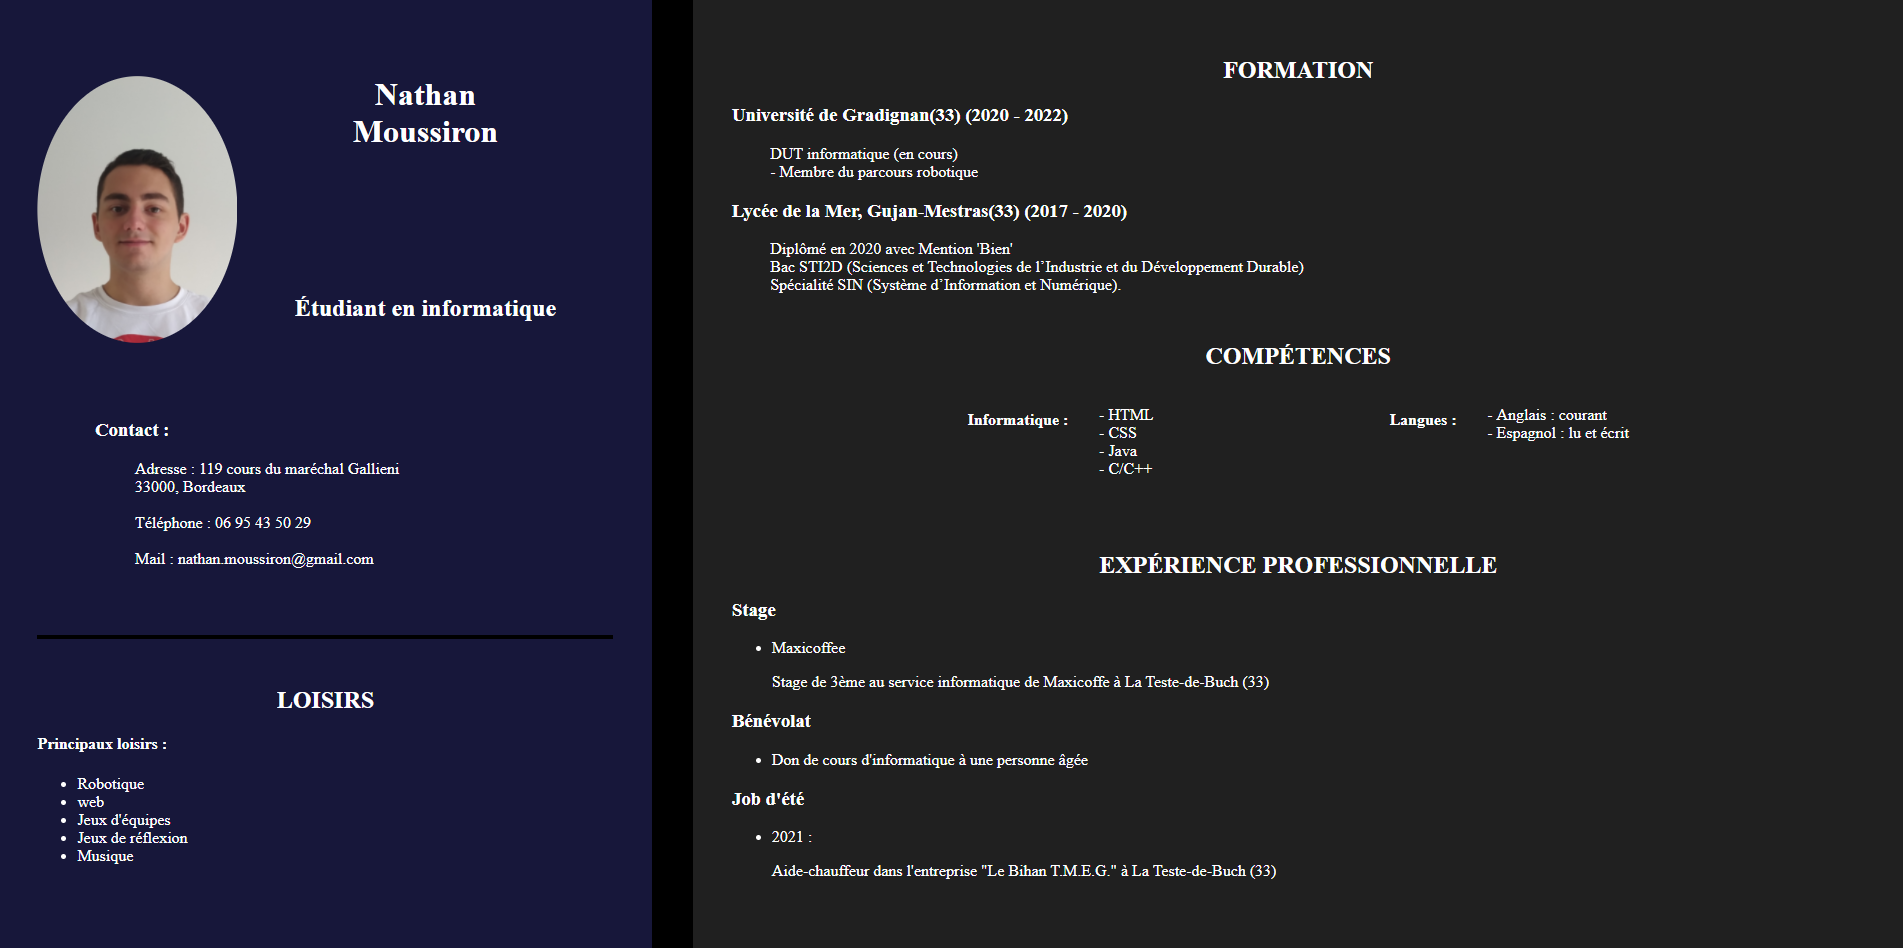
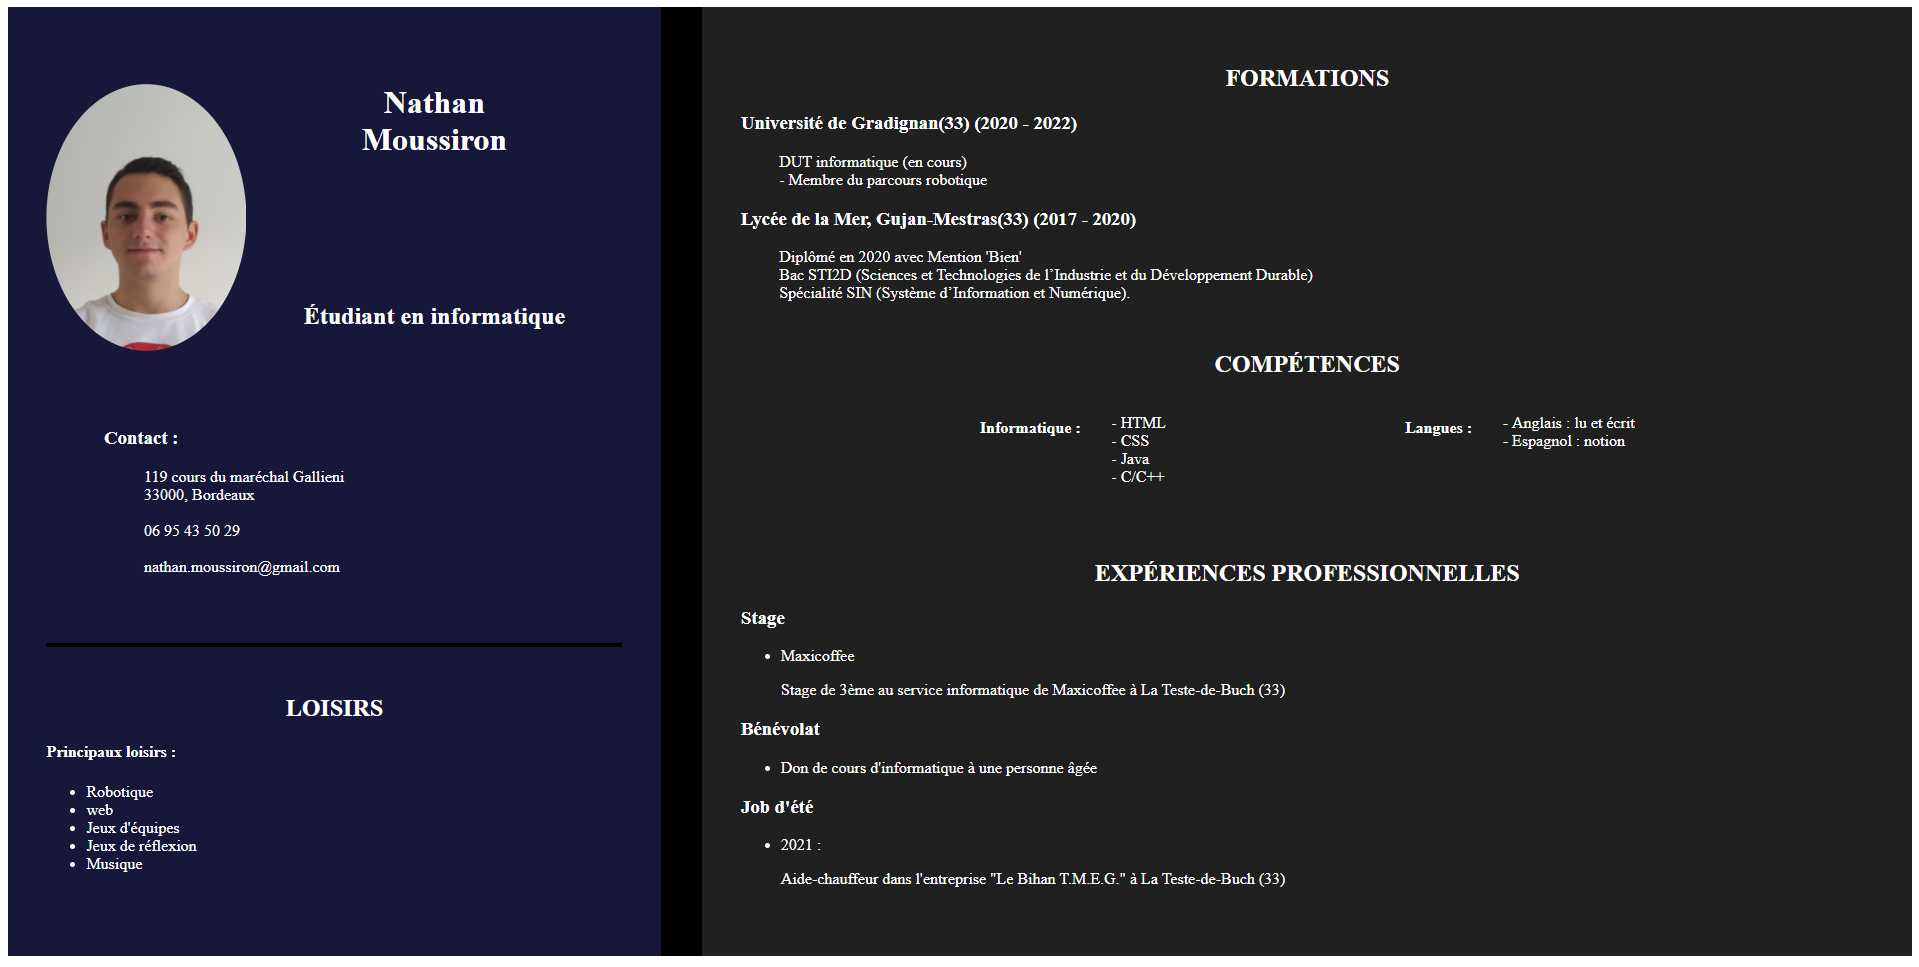
CV

diff --git a/création_cv/mon_cv.css b/création_cv/mon_cv.css
@@ -49,11 +49,11 @@ h1{
     margin-bottom: 5vh;
 }
 
-.loisir{
+.loisir1{
     margin-top: 5vh;
 }
 
-.loisir h4{
+.loisir1 h4{
     text-align: initial;
 }
 
@@ -88,6 +88,10 @@ h1{
 
 .formation p{
     margin-left: 2vw;
+}
+
+.loisir2{
+    display: none;
 }
 
 .left, .right{
@@ -152,11 +156,11 @@ h1{
         margin-bottom: 5vh;
     }
     
-    .loisir{
+    .loisir1{
         margin-top: 5vh;
     }
     
-    .loisir h4{
+    .loisir1 h4{
         text-align: initial;
     }
     
@@ -181,8 +185,9 @@ h1{
     .profil div{
         margin-bottom: initial;
         display: flex;
-        flex-direction: column;
+        flex-direction: row;
         flex-wrap: nowrap;
+        justify-content: space-evenly;
     }
     
     #info, #langue{
@@ -204,24 +209,126 @@ h1{
 /* cas d'un écran possédant une largeur infÃ©rieure Ã  600px */
 
 @media only screen and (max-width: 700px){
-    body{
-        background-color: lawngreen;
-    }
 
     .main{
         display: flex;
-        flex-direction: row;
-        flex-wrap: nowrap;
-        justify-content: space-between;
+        flex-direction: column;
         background-color: black;
     }
     
     /* Gauche */
     .left{
-        width: 25vw;
+        width: initial;
         background-color: rgb(23, 23, 58);
         display: flex;
         flex-direction: column;
+    }
+    
+    img{
+        width: 20vw;
+        clip-path: ellipse(50% 50%);
+        margin-left: 3vw;
+        margin-bottom: 2vh;
+    }
+    
+    h1, h2, h4{
+        text-align: center;
+    }
+    
+    h1{
+        margin-top: 4vh;
+    }
+    
+    .presentation{
+        border-bottom: none;
+    }
+    
+    .presentation h2{
+        margin-top: 8vh;
+        margin-left: initial;
+        margin-bottom: 7vh;
+    }
+    
+    .presentation h3{
+        margin-left: initial;
+    }
+    
+    #contact{
+        list-style-type: none;
+        margin-bottom: initial;
+    }
+    
+    .loisir1{
+        display: none;
+    }
+    
+    /* Droite */
+    .right{
+        width: initial;
+        background-color: rgb(32, 32, 32);
+    }
+    
+    .right div{
+        margin-bottom: 0vh;
+    }
+    
+    .profil{
+        margin-top: 5vh;
+    }
+    
+    .profil h4{
+        text-align: initial;
+    }
+    
+    .profil div{
+        margin-bottom: initial;
+        display: flex;
+        flex-direction: row;
+        justify-content: space-evenly;
+    }
+    
+    #info, #langue{
+        list-style-type: '- '; 
+    }
+    
+    .formation p{
+        margin-left: 2vw;
+    }
+
+    .loisir2{
+        display: initial;
+        background-color: rgb(23, 23, 58);
+        color: white;
+    }
+
+    .loisir2 h4{
+        text-align: initial;
+    }
+  
+    .left, .right{
+        height: auto;
+        padding: 2vw;
+        color: white;
+        display: inline-block;
+    }
+}
+
+@media print{
+    .main{
+        display: flex;
+        flex-direction: row;
+        flex-wrap: nowrap;
+        justify-content: space-between;
+        background-color: initial;
+    }
+    
+    /* Gauche */
+    .left{
+        width: 25vw;
+        background-color: rgba(23, 23, 58, 0.7);
+        display: flex;
+        flex-direction: column;
+        color: white;
     }
     
     img{
@@ -244,9 +351,9 @@ h1{
     }
     
     .presentation h2{
-        margin-top: 8vh;
+        margin-top: 5vh;
         margin-left: initial;
-        margin-bottom: 7vh;
+        margin-bottom: 5vh;
     }
     
     .presentation h3{
@@ -255,22 +362,23 @@ h1{
     
     #contact{
         list-style-type: none;
-        margin-left: -50px;
+        margin-left: -25px;
         margin-bottom: 5vh;
     }
     
-    .loisir{
+    .loisir1{
         margin-top: 5vh;
     }
     
-    .loisir h4{
+    .loisir1 h4{
         text-align: initial;
     }
     
     /* Droite */
     .right{
         width: 64vw;
-        background-color: rgb(32, 32, 32);
+        background-color: white;
+        color: black;
     }
     
     .right div{
@@ -288,8 +396,9 @@ h1{
     .profil div{
         margin-bottom: initial;
         display: flex;
-        flex-direction: column;
+        flex-direction: row;
         flex-wrap: nowrap;
+        justify-content: space-evenly;
     }
     
     #info, #langue{
@@ -303,7 +412,6 @@ h1{
     .left, .right{
         height: auto;
         padding: 2vw;
-        color: white;
         display: inline-block;
     }
 }

diff --git a/création_cv/mon_cv.html b/création_cv/mon_cv.html
@@ -14,15 +14,15 @@
                 <h2>Étudiant en informatique </h2>
                 <h3>Contact :</h3>
                 <ul id="contact">
-                    <li>Adresse : 119 cours du maréchal Gallieni <br> 33000, Bordeaux</li><br>
-                    <li>Téléphone : 06 95 43 50 29</li><br>
-                    <li>Mail : nathan.moussiron@gmail.com</li><br>
+                    <li>119 cours du maréchal Gallieni <br> 33000, Bordeaux</li><br>
+                    <li>06 95 43 50 29</li><br>
+                    <li>nathan.moussiron@gmail.com</li><br>
                 </ul>
             </div>
-            <div class="loisir">
+            <div class="loisir1">
                 <h2>LOISIRS</h2>
                 <h4>Principaux loisirs :</h4>
-                <ul id="loisir">
+                <ul id="loisir1">
                     <li>Robotique</li>
                     <li>web</li>
                     <li>Jeux d'équipes</li>
@@ -61,8 +61,8 @@
                     <div>
                         <h4>Langues : </h4>
                         <ul id="langue">
-                            <li>Anglais : courant</li>
-                            <li>Espagnol : lu et écrit</li>
+                            <li>Anglais : lu et écrit</li>
+                            <li>Espagnol : notion</li>
                         </ul>
                     </div>
                 </div>
@@ -96,6 +96,17 @@
                     </li>
                 </ul>
             </div>
+        </div>
+        <div class="loisir2">
+            <h2>LOISIRS</h2>
+            <h4>Principaux loisirs :</h4>
+            <ul id="loisir2">
+                <li>Robotique</li>
+                <li>web</li>
+                <li>Jeux d'équipes</li>
+                <li>Jeux de réflexion</li>
+                <li>Musique</li>
+            </ul>
         </div>
     </div>
 </body>
